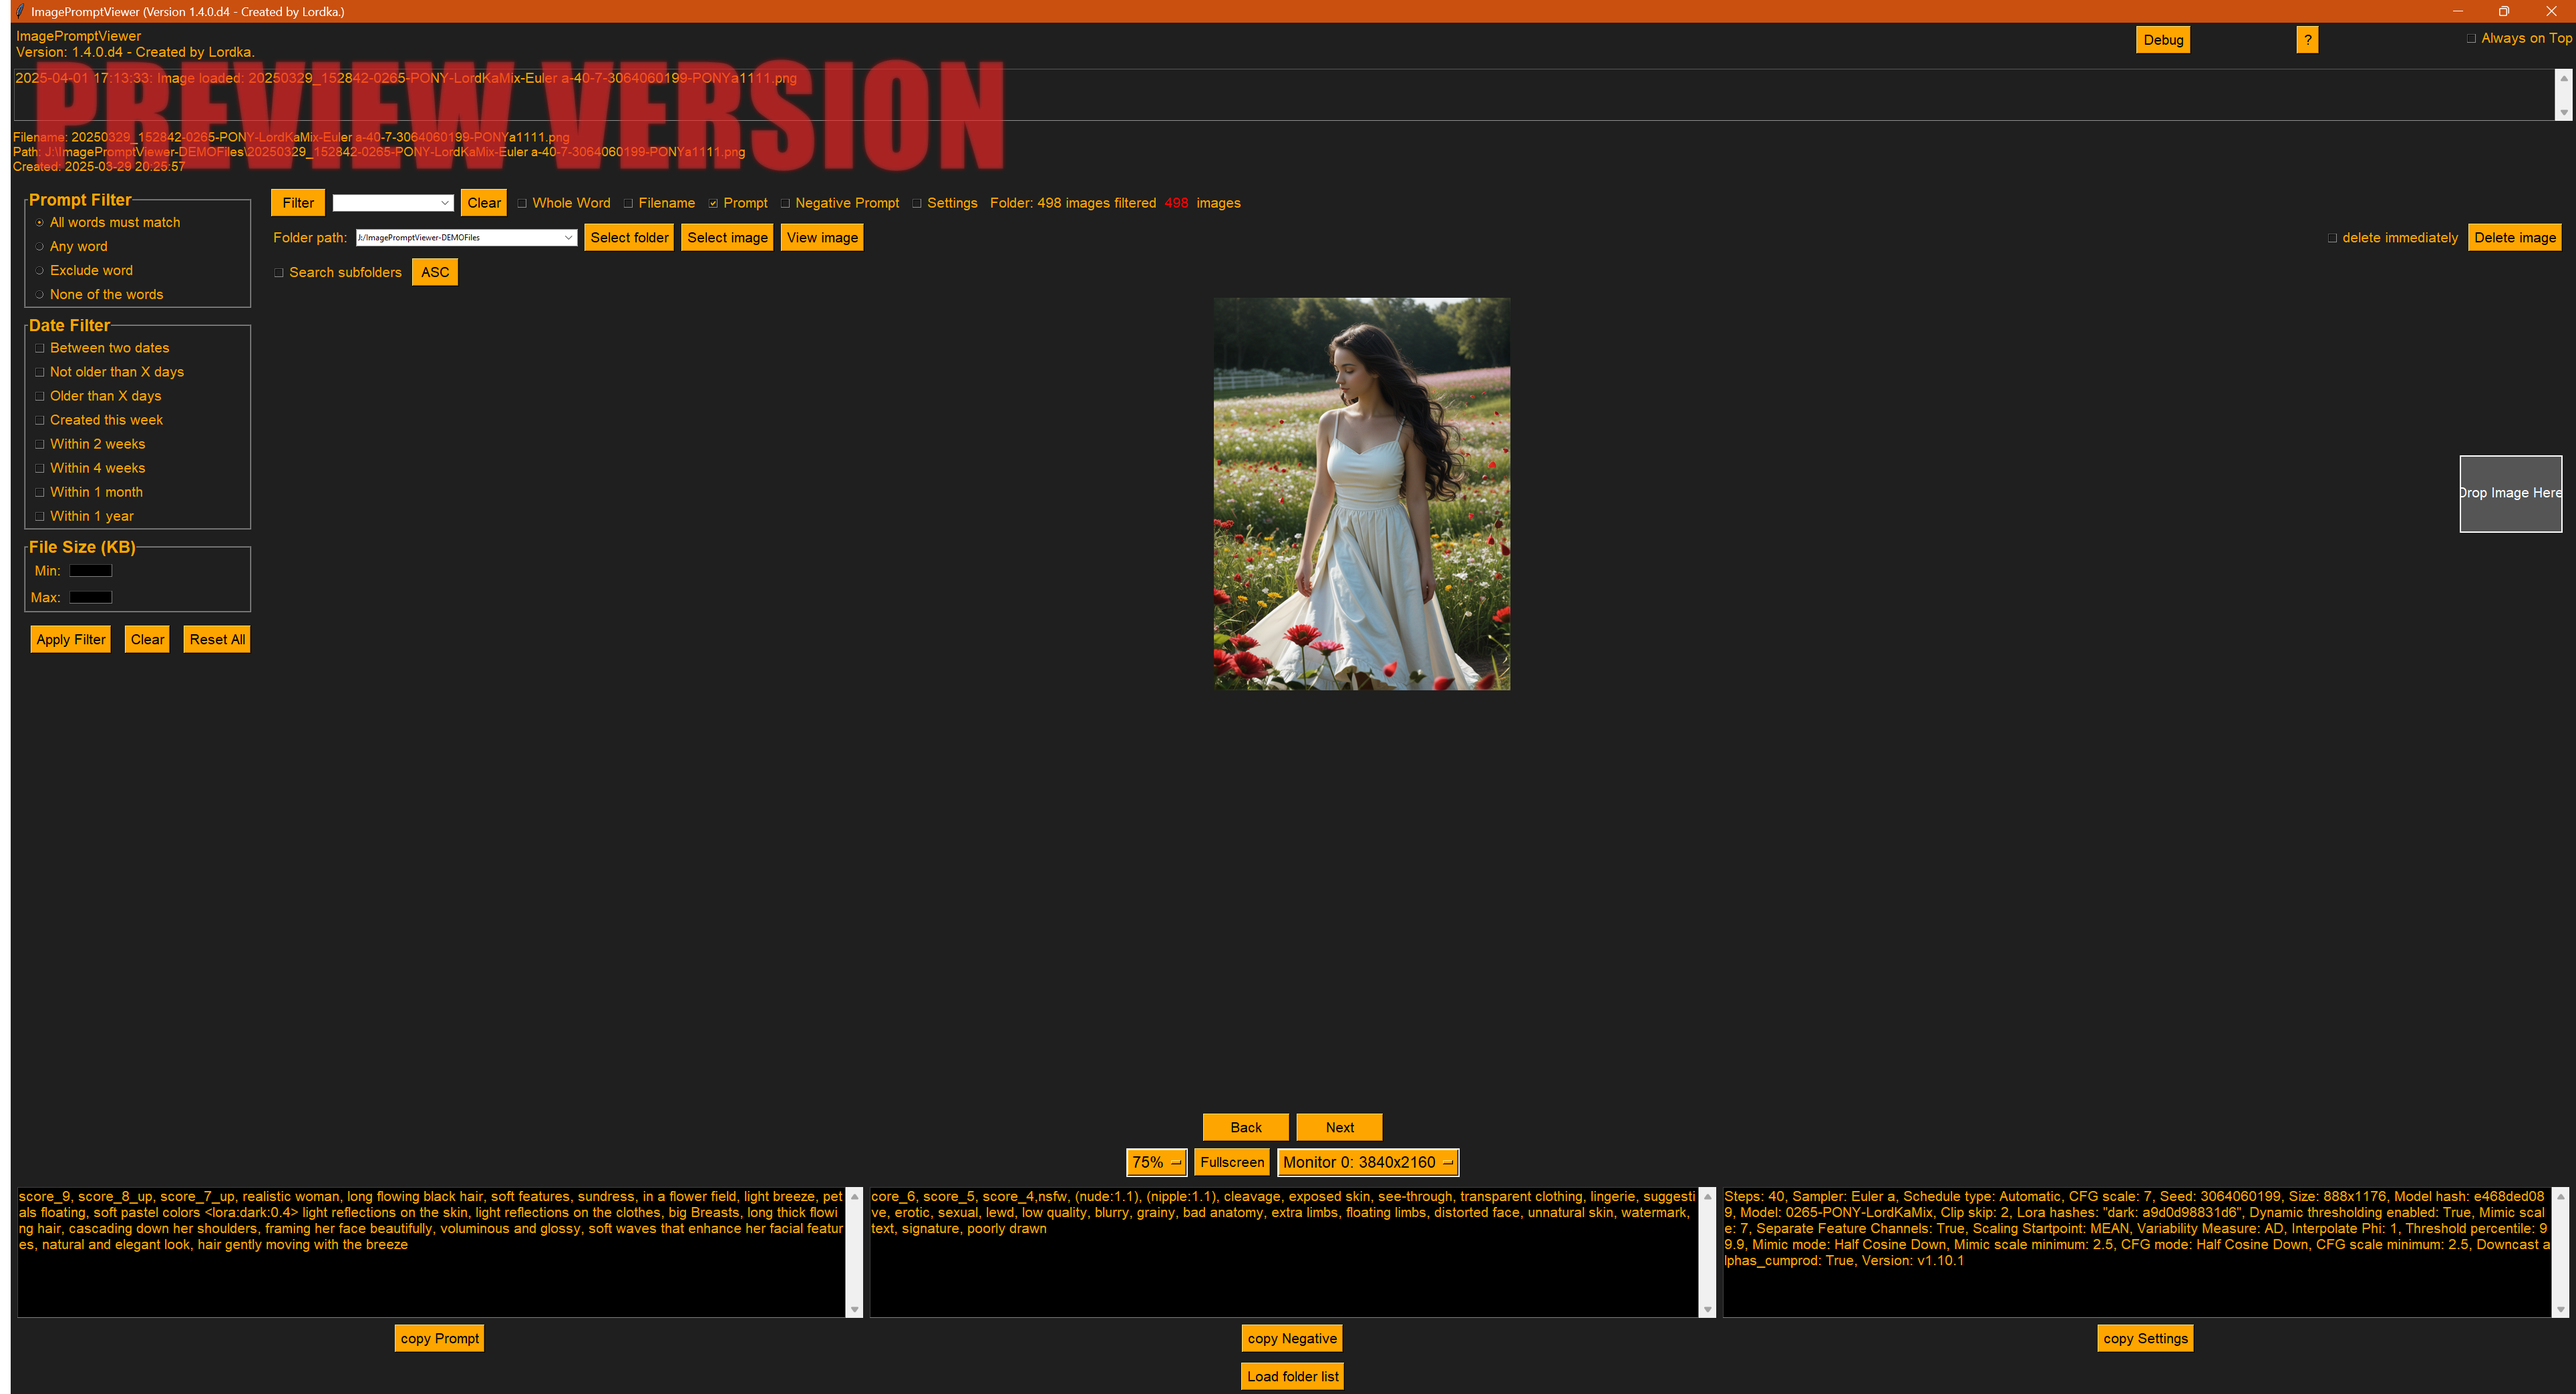
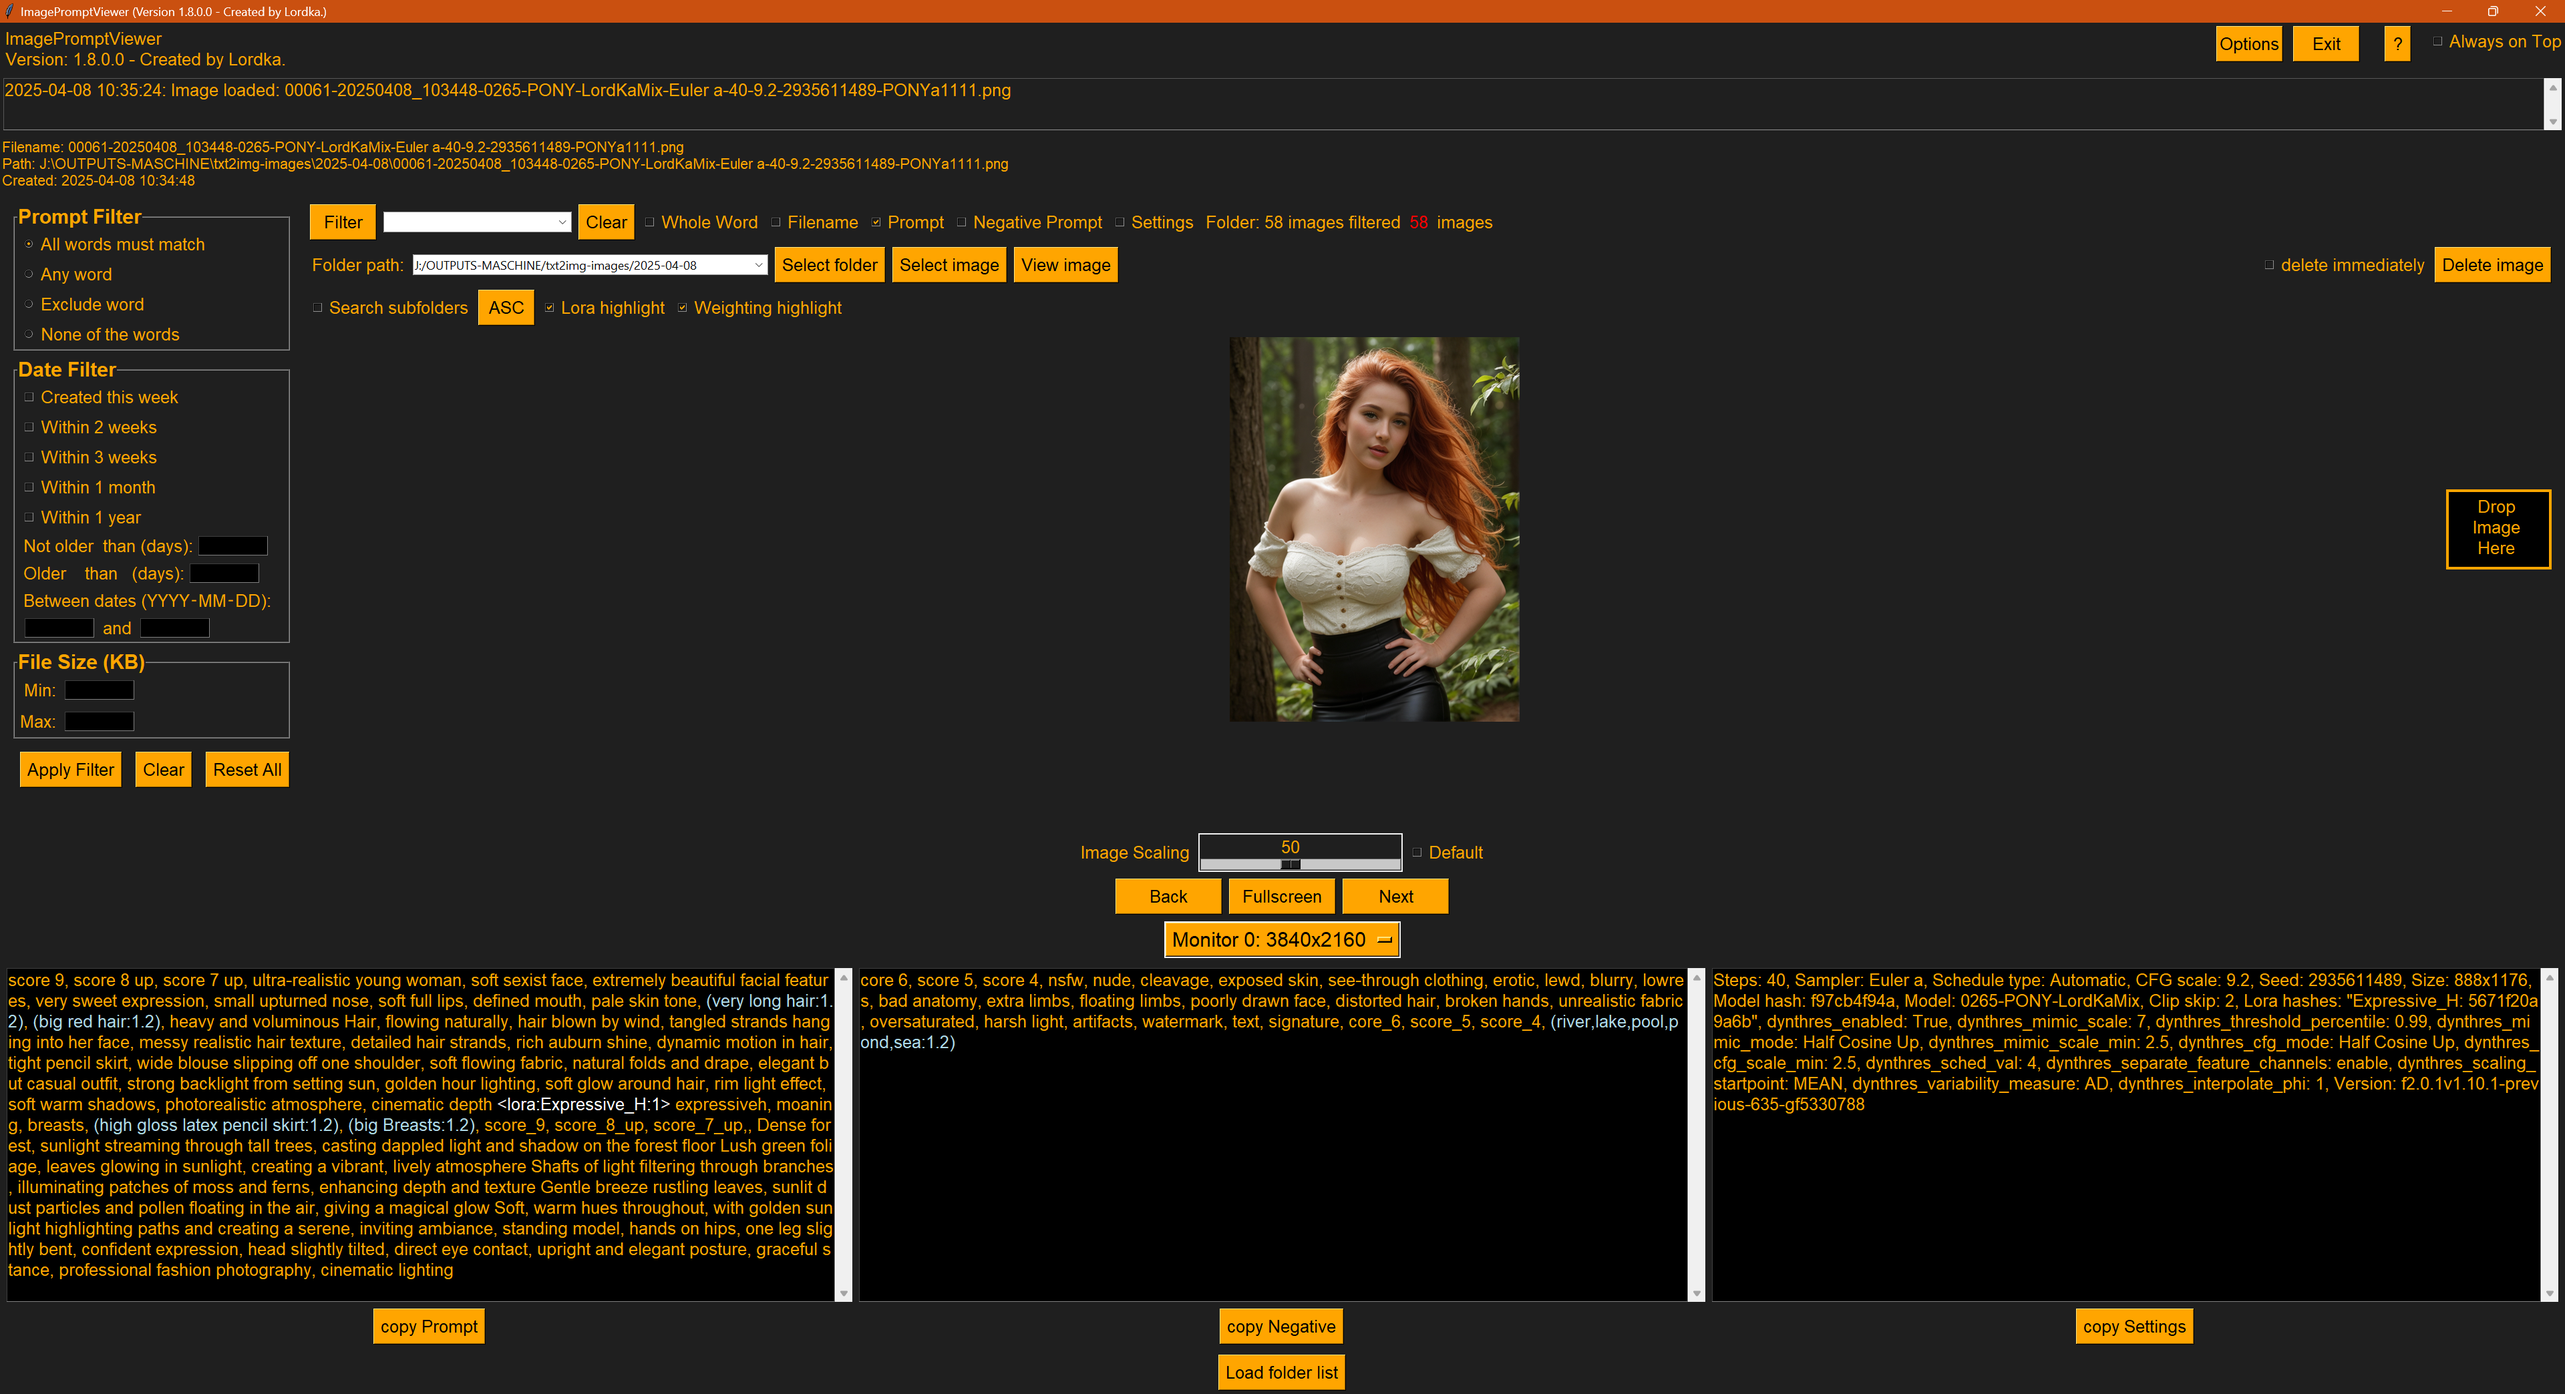
Release version 1.8.0.0  First stable ImagePromptViewer release

diff --git a/README.md b/README.md
@@ -1,35 +1,56 @@
-# ImagePromptViewer (Preview Version)
 
-**Version**: 1.4.0.d7 (Development Branch: `entwicklung`)  
-**Date**: 2025-04-01  
-**Internal Designation**: Master8 Alpha10  
+---
+
+### ✅ STABLE RELEASE: ImagePromptViewer 1.8.0.0
+
+```markdown
+# ImagePromptViewer
+
+**Version**: 1.8.0.0  
+**Release Date**: 2025-04-8  
+**Internal Designation**: Master9 Stable  
 **Author**: LordKa-Berlin  
 
 ---
 
-## Note: This is a Preview Version
-This version of `ImagePromptViewer` is currently in the development branch `entwicklung` and represents a preview release. It is not yet fully stable or feature-complete. Some features are still in progress, and there are known limitations (see [Known Issues](#known-issues)). Feedback and bug reports are welcome!
+## Overview
+
+`ImagePromptViewer` is a Python-based tool to display and manage image files (PNG and JPEG) that have embedded **prompt data**—typically generated by **AI tools** such as **Stable Diffusion**, **AUTOMATIC1111**, or **Forge**.
+
+It reads embedded text data (prompt, negative prompt, generation settings) and shows this information alongside each image. A fullscreen mode is included and supports prompt viewing, syntax highlighting for LoRAs and weights, and various filter options.
+
+This is a **stable release** — tested, reliable, and ready for public use.
 
 ---
 
-## Overview
-`ImagePromptViewer` is a Python-based tool for displaying and managing image files (PNG and JPEG). It extracts metadata from images—specifically text chunks such as Prompt, Negative Prompt, and Settings—and provides a user-friendly GUI with advanced filtering options. It was developed to efficiently analyze and organize AI-generated images (e.g., from Stable Diffusion).
+## Important Note about AI-Generated Prompts
 
-### Main Features
-- **Image Display**: Dynamic display of PNG and JPEG images with scalable previews.
+If you have an **AI-generated image** whose prompt cannot yet be read by ImagePromptViewer, feel free to **send the image** along with **information about the tool or generator used** to:
+
+📧 **lordkaberlin@gmail.com**
+
+ImagePromptViewer is still in its early development phase — more AI tools and formats will be supported in future updates.
+
+---
+
+## Main Features
+
+- **Image Display**: View PNG and JPEG images with adjustable preview sizes.
 - **Metadata Extraction**:
-  - PNG: From `info['parameters']` or fallback keys (`prompt`, `metadata`, `description`).
-  - JPEG: From EXIF tag 37510 (`UserComment`) with support for UNICODE decoding.
-- **Filtering**: Advanced filter options for Prompt, Filename, Negative Prompt, Settings, File Date, and File Size.
-- **Fullscreen Mode**: Display of the current image with metadata and control options.
-- **Folder Management**: Supports loading folders and subfolders with history functionality.
-- **Deletion**: Moves images to the recycle bin with an optional immediate delete feature.
+  - PNG: From `info['parameters']`, or `prompt`, `description`, etc.
+  - JPEG: EXIF tag `UserComment` (with support for various encodings).
+- **Prompt Parsing**: Prompt, Negative Prompt, and Settings are shown separately.
+- **Filter Options**: Filter by Prompt, Filename, Negative Prompt, Settings, File Date, and File Size.
+- **Fullscreen Mode**: Includes metadata display, copy/delete options.
+- **Syntax Highlighting**: Highlights weights and LoRA syntax in the prompt display.
+- **Folder Navigation**: Load folders and subfolders. History for recently opened folders is supported.
+- **Image Deletion**: Moves files to recycle bin or deletes them directly.
 
 ---
 
 ## Screenshots
 
-### 🖼 Main Program Window
+### 🖼 Main Window
 ![ImagePromptViewer Main Window](imagepromptviewer-mainscreen.png)
 
 ### 🖼 Fullscreen Mode
@@ -39,126 +60,61 @@ This version of `ImagePromptViewer` is currently in the development branch `entw
 
 ## Installation
 
-### Prerequisites
-- **Python**: Version 3.7 or higher
-- **Operating System**: Windows, macOS, or Linux
+### Requirements
 
-### Dependencies
-The script automatically installs missing Python libraries. Required packages:
-- `tkinterdnd2` (Drag-and-Drop)
-- `Pillow` (Image Processing)
-- `screeninfo` (Monitor Resolution)
-- `send2trash` (Recycle Bin Functionality)
-- `piexif` (EXIF Data Processing)
+- **Python** 3.7+
+- **OS**: Windows, macOS, Linux
 
-Install these manually with:
+### Install Dependencies
 ```bash
 pip install tkinterdnd2 Pillow screeninfo send2trash piexif
 ```
 
-### Running the Program
-1. Clone the repository:
-   ```bash
-   git clone https://github.com/LordKa-Berlin/ImagePromptViewer.git
-   cd ImagePromptViewer
-   git checkout entwicklung
-   ```
-2. Run the script:
-   ```bash
-   python ImagePromptViewer-1.4.0.d4.py
-   ```
+### Start the Program
+```bash
+python ImagePromptViewer-1.8.0.0.py
+```
 
 ---
 
-## Features in Detail
+## Detailed Features
 
-### Image Display and Navigation
-- **Main Window**: Displays the current image with scalable previews (25%, 50%, 75%, Default).
-- **Navigation**: Arrow keys or mouse wheel to browse through images.
-- **Preview List**: Toggleable list of all images in the folder with thumbnails.
+### Prompt Parsing
+- Supports parsing embedded prompt blocks.
+- Extracts prompt, negative prompt, and settings.
 
-### Metadata Extraction
-- **PNG**: Extracts text from `info['parameters']` or fallback keys.
-- **JPEG**: Reads EXIF tag `UserComment`, supports UNICODE decoding (UTF-16LE, Latin-1 fallback).
-- **Text Splitting**: Divides the text into:
-  - **Prompt**: Main image description.
-  - **Negative Prompt**: Exclusion criteria.
-  - **Settings**: Generation parameters (e.g., "Steps:").
+### Filters
+- Prompt filters: Match all / any / exclude keywords.
+- Filename, Negative Prompt, and Settings filters.
+- File size and file date filters.
+- Visual filter indicator when filters are active.
 
-### Filtering
-- **Prompt Filter**:
-  - Modes: "All words must match", "Any word", "Exclude word", "None of the words".
-  - Supports "Whole Word" option.
-- **File Filter**: Filtering by Filename, Negative Prompt, and Settings.
-- **File Size**: Min/Max in KB.
-- **Date Filter**: Options like "This week", "Within 2 weeks", etc. (see [Known Issues](#known-issues)).
-- **Visual Feedback**: Filter button turns red when a filter is active.
-
-### Fullscreen Mode
-- **Display**: Large-scale image display with metadata.
-- **Controls**: Copy filename/path, delete, show/hide prompt.
-- **Navigation**: Arrow keys or mouse wheel.
-
-### Folder Management
-- **Folder Selection**: Via dialog or Drag-and-Drop.
-- **Subfolders**: Optionally searchable.
-- **History**: Stores the last 10 folders and filters.
-
-### Deletion
-- **Default**: Moves images to the recycle bin with confirmation.
-- **Immediate Delete**: Without confirmation (button turns red).
+### Fullscreen
+- Displays large image with prompt overlay.
+- Supports file deletion, copying filename/path, navigation.
+- Scroll support for long prompt texts.
 
 ---
 
-## User Interface
-- **Color Scheme**:
-  - Background: Dark Gray (`#1F1F1F`)
-  - Buttons: Orange (`#FFA500`)
-  - Text: Orange (`#FFA500`) on Black (`#000000`)
-- **Layout**:
-  - Left: Filter Settings Panel (Prompt, Date, File Size).
-  - Right: Image display, control elements, and metadata fields.
-- **Dynamic Sizing**: Adjusts to 90% of the monitor resolution.
+## Known Limitations
+
+- Date filters such as "between two dates" are still in progress.
+- Handling of huge image folders (>4000 images) may affect performance.
+- Some AI tools might still use unknown formats.
 
 ---
 
-## Known Issues
-- **Filter Functions**:
-  - Not all date filters (e.g., "Between two dates", "Not older than X days") are fully functional yet. These are currently being implemented.
-- **Large Folders**: Folders or subfolders with more than 4000 image files may cause performance issues or crashes. Optimization is in progress.
-- **Stability**: As a preview version, unexpected errors may occur.
+## Contribution and Feedback
+
+We welcome contributions and suggestions!
+
+- Report bugs via [GitHub Issues](https://github.com/LordKa-Berlin/ImagePromptViewer/issues)
+- Email feedback: **lordkaberlin@gmail.com**
 
 ---
 
-## Planned Improvements
-- Full implementation of all date filters.
-- Performance optimization for large folders (Lazy Loading, Multiprocessing).
-- Error handling and stability improvements.
-- Support for additional image formats (e.g., WebP).
+*Developed by LordKa-Berlin*  
+*Licensed under Attribution-NonCommercial 4.0 International (see LICENSE.md)*
+```
 
 ---
-
-## Usage
-1. Start the program.
-2. Select a folder via "Select folder" or drag an image via Drag-and-Drop.
-3. Use the filter options in the left panel and the search field in the top right.
-4. Browse through images and analyze metadata.
-5. Delete images or copy information as needed.
-
----
-
-### Changes in 1.4.0.d4
-- Integration of Filter Settings into the main window (separate window removed).
-- New filter panel on the left with Prompt, Date, and File Size filters.
-- Removal of the old "Filter Settings" button.
-- Retention of all other functions and layouts.
-
----
-
-## Feedback
-Since this is a preview version, we welcome feedback! Please create an [Issue](https://github.com/LordKa-Berlin/ImagePromptViewer/issues) or contact me directly.
-
----
-
-*Developed by LordKa-Berlin, 2025*
-
